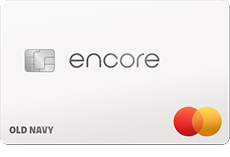
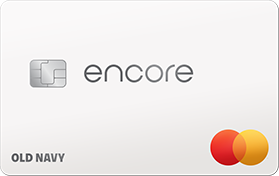
Improve Barclays card art and remove low-resolution images
- Crop empty margins so each card fills its image, and replace Breeze,
  Emirates, GM, Old Navy, and Xbox art with larger, cleaner versions
- Remove Carnival art, which has a NEW banner, and every image shorter
  than the wallet's 150px display height, so they show up as missing

diff --git a/src/app/core/data/cards/index.ts b/src/app/core/data/cards/index.ts
@@ -585,38 +585,17 @@ export const CARD_IMAGE_URLS = new Map<string, string[]>([
   ['bofa-business-advantage-unlimited-cash-rewards', ['images/cards/bank-of-america/unlimited-cash-rewards-business.png']],
   ['bofa-unlimited-cash-rewards-secured', ['images/cards/bank-of-america/unlimited-cash-rewards-secured.png']],
   ['bofa-unlimited-cash-rewards', ['images/cards/bank-of-america/unlimited-cash-rewards.webp']],
-  ['barclays-aarp-essential-rewards-mastercard', ['images/cards/barclays/aarp-essential-rewards-mastercard.png']],
-  ['barclays-aarp-travel-rewards-mastercard', ['images/cards/barclays/aarp-travel-rewards-mastercard.png']],
-  ['barclays-athleta-encore-mastercard', ['images/cards/barclays/athleta-encore-mastercard.png']],
-  ['barclays-aadvantage-aviator-blue', ['images/cards/barclays/aviator-blue.jpg']],
   ['barclays-aadvantage-aviator-business', ['images/cards/barclays/aviator-business.png']],
   ['barclays-aadvantage-aviator', ['images/cards/barclays/aviator-mastercard.png']],
   ['barclays-aadvantage-aviator-red', ['images/cards/barclays/aviator-red.webp']],
   ['barclays-aadvantage-aviator-silver', ['images/cards/barclays/aviator-silver.png']],
-  ['barclays-banana-republic-encore-mastercard', ['images/cards/barclays/banana-republic-encore-mastercard.png']],
-  ['barclays-barnes-noble-mastercard', ['images/cards/barclays/barnes-noble-mastercard.png']],
   ['barclays-breeze-easy-visa', ['images/cards/barclays/breeze-easy-visa.png']],
-  ['barclays-capital-vacations-world-mastercard', ['images/cards/barclays/capital-vacations-world-mastercard.png']],
-  ['barclays-carnival-rewards-mastercard', ['images/cards/barclays/carnival-rewards-mastercard.png']],
   ['barclays-emirates-skywards-premium', ['images/cards/barclays/emirates-skywards-premium.png']],
   ['barclays-emirates-skywards-rewards', ['images/cards/barclays/emirates-skywards-rewards.png']],
-  ['barclays-frontier-airlines-world-mastercard', ['images/cards/barclays/frontier-airlines-world-mastercard.png']],
-  ['barclays-gap-encore-mastercard', ['images/cards/barclays/gap-encore-mastercard.png']],
   ['barclays-gm-business-mastercard', ['images/cards/barclays/gm-business-mastercard.png']],
   ['barclays-gm-rewards-mastercard', ['images/cards/barclays/gm-rewards-mastercard.png']],
-  ['barclays-jetblue-business', ['images/cards/barclays/jetblue-business.png']],
-  ['barclays-jetblue-plus', ['images/cards/barclays/jetblue-plus.png']],
-  ['barclays-jetblue-premier', ['images/cards/barclays/jetblue-premier.png']],
-  ['barclays-jetblue', ['images/cards/barclays/jetblue.png']],
-  ['barclays-lufthansa-miles-more', ['images/cards/barclays/lufthansa-miles-more-world-elite-mastercard.png']],
   ['barclays-old-navy-encore-mastercard', ['images/cards/barclays/old-navy-encore-mastercard.png']],
-  ['barclays-rci-elite-rewards-mastercard', ['images/cards/barclays/rci-elite-rewards-mastercard.png']],
-  ['barclays-upromise-world-mastercard', ['images/cards/barclays/upromise-world-mastercard.png']],
-  ['barclays-wyndham-rewards-earner-business', ['images/cards/barclays/wyndham-rewards-earner-business.png']],
-  ['barclays-wyndham-rewards-earner-plus', ['images/cards/barclays/wyndham-rewards-earner-plus.png']],
-  ['barclays-wyndham-rewards-earner-premier', ['images/cards/barclays/wyndham-rewards-earner-premier.png']],
-  ['barclays-wyndham-rewards-earner', ['images/cards/barclays/wyndham-rewards-earner.png']],
-  ['barclays-xbox-mastercard', ['images/cards/barclays/xbox-card.jpg']],
+  ['barclays-xbox-mastercard', ['images/cards/barclays/xbox-card.png']],
   ['capital-one-club-business-card', ['images/cards/capital-one/bass-pro-shops-and-cabelas-club-business.avif']],
   ['capital-one-bass-pro-shops-club-card', ['images/cards/capital-one/bass-pro-shops-club.avif']],
   ['capital-one-bjs-one-plus-mastercard', ['images/cards/capital-one/bjs-one-plus.avif']],
